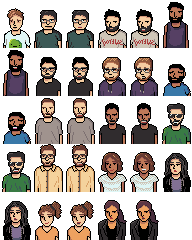
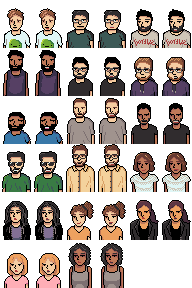
New customers

diff --git a/src/entity/CustomerFactory.cpp b/src/entity/CustomerFactory.cpp
@@ -45,6 +45,7 @@ constexpr Animation createTalkingAnimation(int customerId)
     {
         .spritesheetIndex = customerId + 1
     };
+    frameMouthOpen.relativeTransform.h = 0.95f;
 
     return Animation
     {
